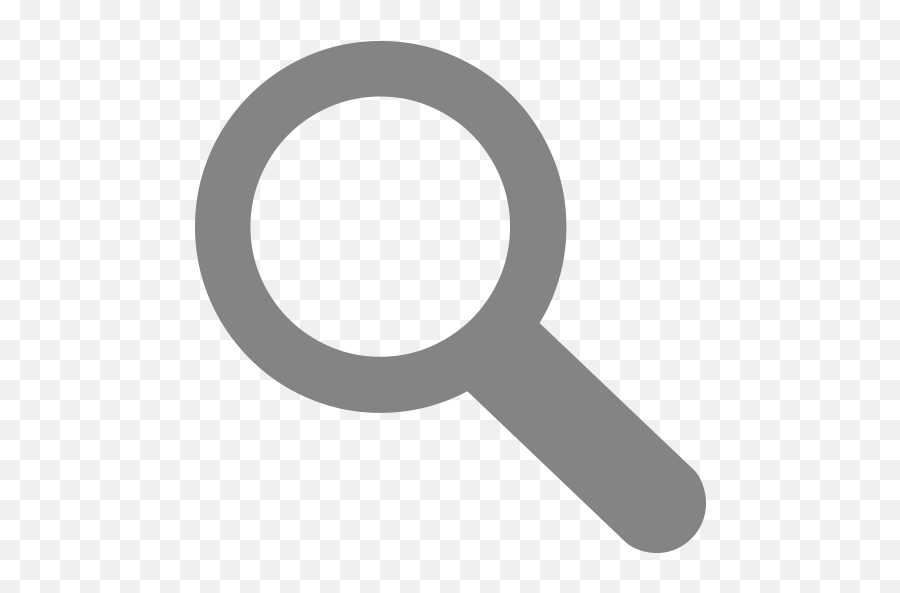
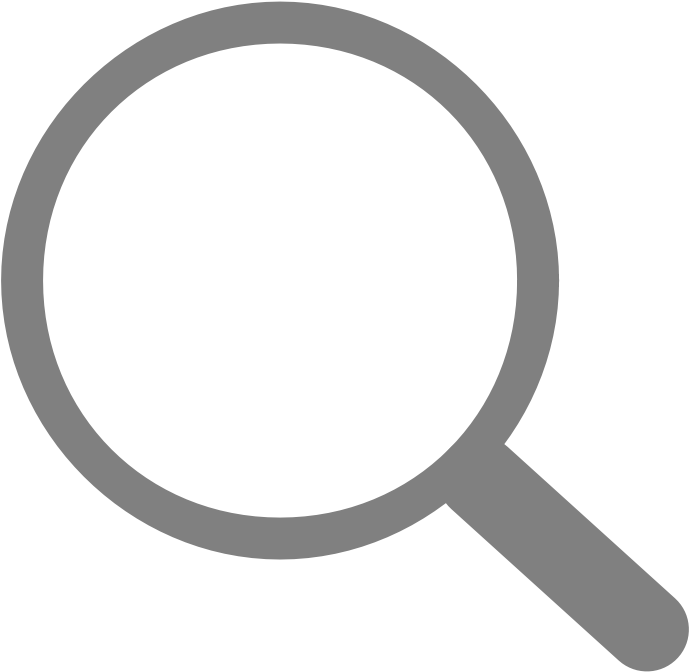
finished search bar, added magnifying glass

diff --git a/index.html b/index.html
@@ -8,7 +8,7 @@
     </head>
     <body>
         <img src=google_logo.png alt="google logo" class="center logo">
-        <diiv id=search_bar class="center"></diiv>
+        <diiv id=search_bar class="center"><img src=magnifying_glass.png alt="magnifying glass" id="glass"></diiv>
         <div class="buttons">
             <button id="button1">Google Search</button>
             <button id="button2">I'm Feeling Lucky</button>

diff --git a/styles.css b/styles.css
@@ -35,8 +35,14 @@
 }
 
 #search_bar {
-    border: 4px solid gray;
-    border-width: 1em;
+    border: 2px solid rgb(211, 211, 211);
     border-radius: 20px;
-    padding-left: 15em;
+    padding-right: 10em;
+
 }
+
+#glass {
+    height: auto;
+    width: 5%;
+    padding: .5em;
+    }
